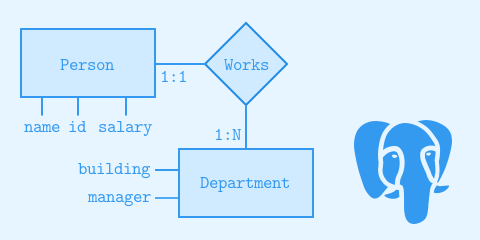
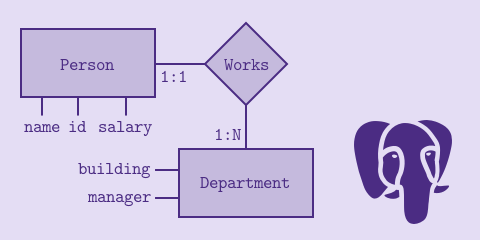
Update module card images
Note: Dark mode support was added

Changed region(s): [[0.0312, 0.0875, 0.6562, 0.9333], [0.7188, 0.4958, 0.9688, 0.9333], [0.0312, 0.4958, 0.3125, 0.5833]]

diff --git a/src/components/pages/ModuleList/list.ts b/src/components/pages/ModuleList/list.ts
@@ -1,12 +1,21 @@
-import logicIllustration from "assets/images/logic-illustration.svg";
-import discreteIllustration from "assets/images/discrete-illustration.svg";
-import systemsIllustration from "assets/images/systems-illustration.svg";
-import methodsIllustration from "assets/images/methods-illustration.svg";
-import graphIllustration from "assets/images/graph-illustration.svg";
+import logicIllustration from "assets/images/logic-illustration.png";
+import discreteIllustration from "assets/images/discrete-illustration.png";
+import systemsIllustration from "assets/images/systems-illustration.png";
+import methodsIllustration from "assets/images/methods-illustration.png";
+import graphIllustration from "assets/images/graph-illustration.png";
 import javaIllustration from "assets/images/java-illustration.png";
 import reasoningIllustration from "assets/images/reasoning-illustration.png";
 import architectureIllustration from "assets/images/architecture-illustration.png";
 import databaseIllustration from "assets/images/database-illustration.png";
+import logicIllustrationDark from "assets/images/logic-illustration-dark.png";
+import discreteIllustrationDark from "assets/images/discrete-illustration-dark.png";
+import systemsIllustrationDark from "assets/images/systems-illustration-dark.png";
+import methodsIllustrationDark from "assets/images/methods-illustration-dark.png";
+import graphIllustrationDark from "assets/images/graph-illustration-dark.png";
+import javaIllustrationDark from "assets/images/java-illustration-dark.png";
+import reasoningIllustrationDark from "assets/images/reasoning-illustration-dark.png";
+import architectureIllustrationDark from "assets/images/architecture-illustration-dark.png";
+import databaseIllustrationDark from "assets/images/database-illustration-dark.png"
 
 import { ProgressStatus } from "constants/types";
 import { Term } from "constants/types";
@@ -15,7 +24,8 @@ export const modulesList = [
   {
     title: "Introduction to Computer Systems",
     code: "CO112",
-    image: systemsIllustration,
+    imageLight: systemsIllustration,
+    imageDark: systemsIllustrationDark,
     terms: [Term.AUTUMN],
     progressStatus: ProgressStatus.IN_PROGRESS,
     progressPercent: 93,
@@ -24,7 +34,8 @@ export const modulesList = [
   {
     title: "Introduction to Computer Architecture",
     code: "CO113",
-    image: architectureIllustration,
+    imageLight: architectureIllustration,
+    imageDark: architectureIllustrationDark,
     terms: [Term.SPRING],
     progressStatus: ProgressStatus.NOT_STARTED,
     progressPercent: 0,
@@ -33,7 +44,8 @@ export const modulesList = [
   {
     title: "Introduction to Databases",
     code: "CO130",
-    image: databaseIllustration,
+    imageLight: databaseIllustration,
+    imageDark: databaseIllustrationDark,
     terms: [Term.SPRING],
     progressStatus: ProgressStatus.NOT_STARTED,
     progressPercent: 0,
@@ -42,7 +54,8 @@ export const modulesList = [
   {
     title: "Java",
     code: "CO120.2",
-    image: javaIllustration,
+    imageLight: javaIllustration,
+    imageDark: javaIllustrationDark,
     terms: [Term.AUTUMN, Term.SPRING, Term.SUMMER],
     progressStatus: ProgressStatus.IN_PROGRESS,
     progressPercent: 20,
@@ -51,7 +64,8 @@ export const modulesList = [
   {
     title: "Introduction to Logic",
     code: "CO140",
-    image: logicIllustration,
+    imageLight: logicIllustration,
+    imageDark: logicIllustrationDark,
     terms: [Term.AUTUMN],
     progressStatus: ProgressStatus.IN_PROGRESS,
     progressPercent: 50,
@@ -60,7 +74,8 @@ export const modulesList = [
   {
     title: "Reasoning About Programs",
     code: "CO141",
-    image: reasoningIllustration,
+    imageLight: reasoningIllustration,
+    imageDark: reasoningIllustrationDark,
     terms: [Term.SPRING],
     progressStatus: ProgressStatus.NOT_STARTED,
     progressPercent: 0,
@@ -69,7 +84,8 @@ export const modulesList = [
   {
     title: "Discrete Mathematics",
     code: "CO142",
-    image: discreteIllustration,
+    imageLight: discreteIllustration,
+    imageDark: discreteIllustrationDark,
     terms: [Term.AUTUMN],
     progressStatus: ProgressStatus.IN_PROGRESS,
     progressPercent: 60,
@@ -79,7 +95,8 @@ export const modulesList = [
     title: "Mathematical Methods",
     code: "CO145",
     terms: [Term.AUTUMN],
-    image: methodsIllustration,
+    imageLight: methodsIllustration,
+    imageDark: methodsIllustrationDark,
     progressStatus: ProgressStatus.IN_PROGRESS,
     progressPercent: 45,
     content: "",
@@ -87,7 +104,8 @@ export const modulesList = [
   {
     title: "Graphs and Algorithms",
     code: "CO150",
-    image: graphIllustration,
+    imageLight: graphIllustration,
+    imageDark: graphIllustrationDark,
     terms: [Term.SPRING],
     progressStatus: ProgressStatus.NOT_STARTED,
     progressPercent: 0,

diff --git a/src/components/atoms/ModuleCard/index.tsx b/src/components/atoms/ModuleCard/index.tsx
@@ -8,13 +8,12 @@ import { faSun, faLeaf, faSeedling } from "@fortawesome/free-solid-svg-icons";
 import { FontAwesomeIcon } from "@fortawesome/react-fontawesome";
 import { Term, ProgressStatus } from "constants/types";
 
-
-
 export interface ModuleCardProps {
   module: {
     title: string;
     code: string;
-    image: string;
+    imageLight: string;
+    imageDark: string;
     content: string;
     terms: Term[];
     progressStatus?: ProgressStatus;
@@ -44,7 +43,7 @@ const ModuleCard: React.FC<ModuleCardProps> = ({ module }: ModuleCardProps) => {
       style={{
         marginTop: "1.875rem",
         paddingLeft: "0.625rem",
-        paddingRight: "0.625rem"
+        paddingRight: "0.625rem",
       }}
     >
       <Card
@@ -74,7 +73,11 @@ const ModuleCard: React.FC<ModuleCardProps> = ({ module }: ModuleCardProps) => {
         <Card.Img
           style={{ borderRadius: 0 }}
           variant="top"
-          src={module.image}
+          src={
+            document.documentElement.getAttribute("data-theme") === "dark"
+              ? module.imageDark
+              : module.imageLight
+          }
         />
         <Card.Body>
           <Card.Title>{module.title}</Card.Title>

diff --git a/src/components/pages/Exams/PastPapers/index.tsx b/src/components/pages/Exams/PastPapers/index.tsx
@@ -4,7 +4,7 @@ import styles from "./style.module.scss";
 import classNames from "classnames";
 import MyBreadcrumbs from "components/atoms/MyBreadcrumbs";
 
-import graphIllustration from "assets/images/graph-illustration.svg";
+import graphIllustration from "assets/images/graph-illustration.png";
 import InputGroup from "react-bootstrap/InputGroup";
 import FormControl from "react-bootstrap/FormControl";
 import Button from "react-bootstrap/Button";

diff --git a/src/components/pages/ModuleFeedback/index.tsx b/src/components/pages/ModuleFeedback/index.tsx
@@ -4,7 +4,7 @@ import styles from "./style.module.scss";
 import classNames from "classnames";
 import MyBreadcrumbs from "components/atoms/MyBreadcrumbs";
 
-import graphIllustration from "assets/images/graph-illustration.svg";
+import graphIllustration from "assets/images/graph-illustration.png";
 import InputGroup from "react-bootstrap/InputGroup";
 import FormControl from "react-bootstrap/FormControl";
 import Button from "react-bootstrap/Button";

diff --git a/src/constants/types.ts b/src/constants/types.ts
@@ -24,7 +24,8 @@ export interface Resource {
 export interface Module {
   title: string;
   code: string;
-  image: string;
+  imageLight: string;
+  imageDark: string;
   terms: Term[];
   progressStatus: ProgressStatus;
   progressPercent: number;
